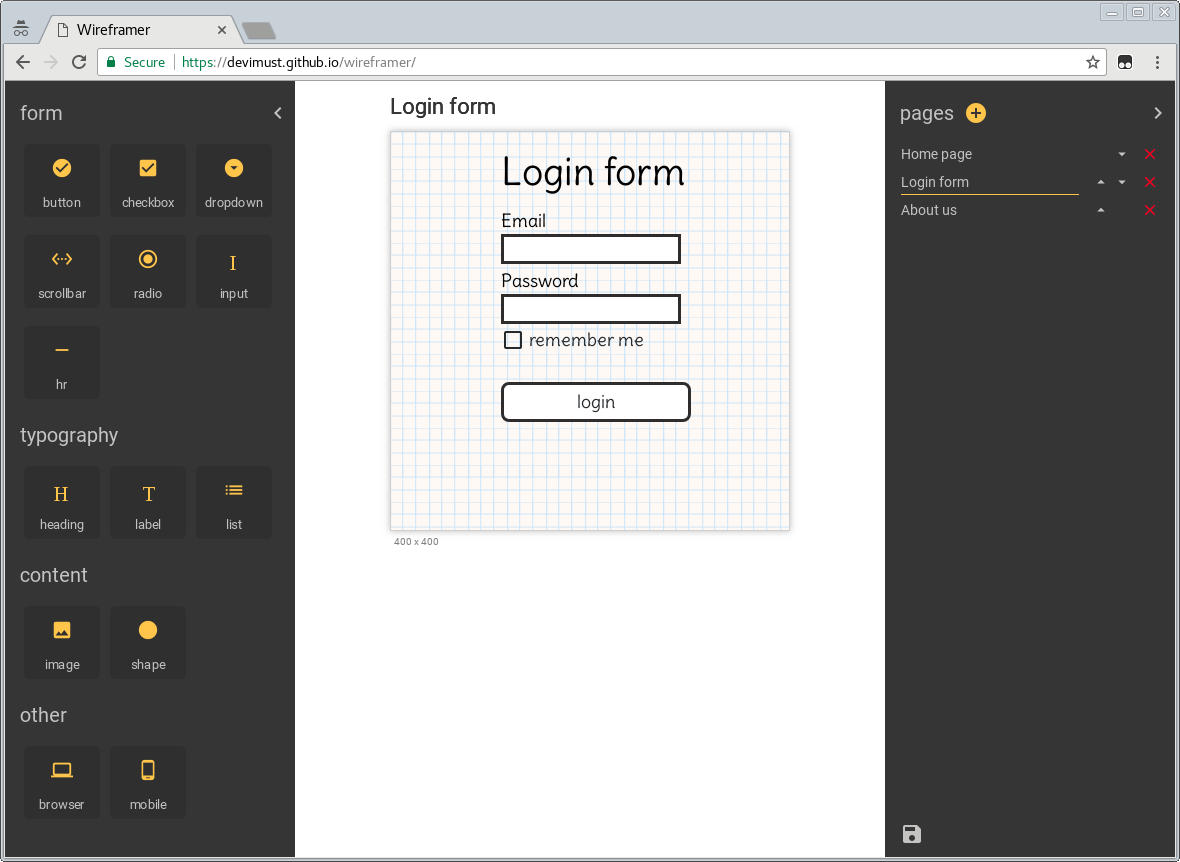
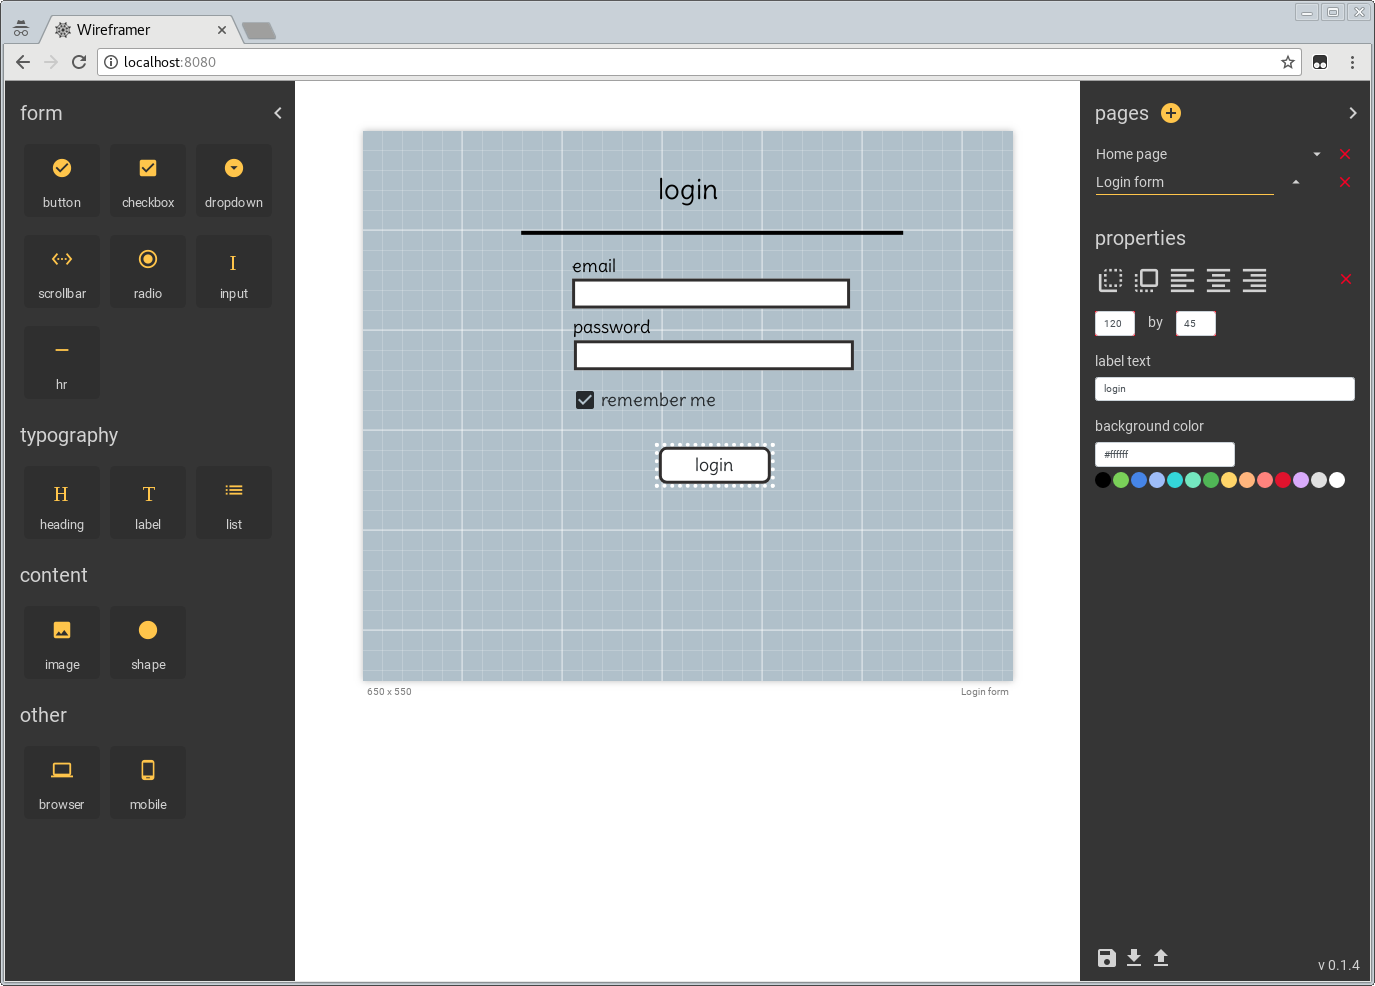
Add delete keyboard event on active widget, update screenshot, resize canvas properly.

diff --git a/src/components/WidgetHolder.vue b/src/components/WidgetHolder.vue
@@ -21,6 +21,8 @@
 
 <script>
 
+  import interact from 'interactjs'
+
   import WidgetButton from './widgets/WidgetButton.vue'
   import WidgetCheckbox from './widgets/WidgetCheckbox.vue'
   import WidgetDropdown from './widgets/WidgetDropdown.vue'
@@ -41,6 +43,56 @@
       setActiveWidget (widget) {
         this.$store.dispatch('setActiveWidget', widget)
       },
+    },
+
+    mounted () {
+      const vm = this
+
+      window.addEventListener("keypress", function(e) {
+        switch (e.keyCode) {
+          case 127 : vm.$store.dispatch('deleteWidget')
+          break;
+        }
+      })
+
+      interact('.widget-holder')
+        .resizable({
+          // resize from all edges and corners
+          edges: { left: false, right: true, bottom: true, top: false },
+
+          inertia: true,
+        })
+        .on('resizemove', function (event) {
+          var target = event.target,
+              x = (parseFloat(target.getAttribute('data-x')) || 0),
+              y = (parseFloat(target.getAttribute('data-y')) || 0);
+
+          // update the element's style
+          target.style.width  = event.rect.width + 'px';
+          target.style.height = event.rect.height + 'px';
+
+          // translate when resizing from top or left edges
+          x += event.deltaRect.left;
+          y += event.deltaRect.top;
+
+          target.style.webkitTransform = target.style.transform =
+              'translate(' + x + 'px,' + y + 'px)';
+
+          target.setAttribute('data-x', x);
+          target.setAttribute('data-y', y);
+          target.setAttribute('data-w', Math.round(event.rect.width));
+          target.setAttribute('data-h', Math.round(event.rect.height));
+        })
+        .on('resizeend', function (event) {
+          var target = event.target,
+              w = (parseFloat(target.getAttribute('data-w')) || 0),
+              h = (parseFloat(target.getAttribute('data-h')) || 0);
+
+          vm.$store.dispatch('updatePageCanvasSize', {
+            width: w,
+            height: h
+          })
+        })
     },
 
     computed: {

diff --git a/src/components/SideProperties.vue b/src/components/SideProperties.vue
@@ -34,23 +34,6 @@
           </tr>
         </table>
 
-        <div v-if="activePage" class="page-properties">
-          <h2>canvas</h2>
-
-          <!-- dimensions -->
-          <div class="page-actions form-group">
-            <div>
-              <input type="text" class="form-control" v-model="activePage.w">
-            </div>
-            <label> by </label>
-            <div>
-              <input type="text" class="form-control" v-model="activePage.h">
-            </div>
-          </div>
-
-
-        </div>
-
         <div v-if="activeWidget" class="widget-properties">
           <h2>properties</h2>
 
@@ -490,19 +473,7 @@
       },
       'activeWidget.h': function (val, oldVal) {
         this.$store.dispatch('updateWidgetProperties', this.activeWidget)
-      },
-      'activePage.w': function (val, oldVal) {
-         this.$store.dispatch('updatePageCanvasSize', {
-          width: this.activePage.w,
-          height: this.activePage.h
-        });
-      },
-      'activePage.h': function (val, oldVal) {
-        this.$store.dispatch('updatePageCanvasSize', {
-          width: this.activePage.w,
-          height: this.activePage.h
-        });
-      },
+      }
     },
 
     created () {
@@ -596,25 +567,6 @@
       i {
         cursor: pointer;
         font-size: $small-icon-size;
-      }
-    }
-
-    .page-properties {
-      .page-actions {
-        div {
-          background-color: red;
-          display: inline-block;
-          width: 40px;
-          padding: 0;
-        }
-
-        input[type="text"] {
-          display: inline-block;
-        }
-
-        label {
-          margin: 0 10px 0 10px;
-        }
       }
     }
 

diff --git a/src/helpers/vue-interactjs.vue b/src/helpers/vue-interactjs.vue
@@ -89,7 +89,7 @@
         })
         .resizable({
           // resize from all edges and corners
-          edges: { left: true, right: true, bottom: true, top: true },
+          edges: { left: false, right: true, bottom: true, top: false },
 
           // keep the edges inside the parent
           restrictEdges: {

diff --git a/src/components/widgets/WidgetImage.vue b/src/components/widgets/WidgetImage.vue
@@ -1,8 +1,8 @@
 <template>
   <vue-interactjs
     :widget=widget
-    :minw="100"
-    :minh="30"
+    :minw="10"
+    :minh="10"
   >
     <div class="outer">
       <div class="inner"
